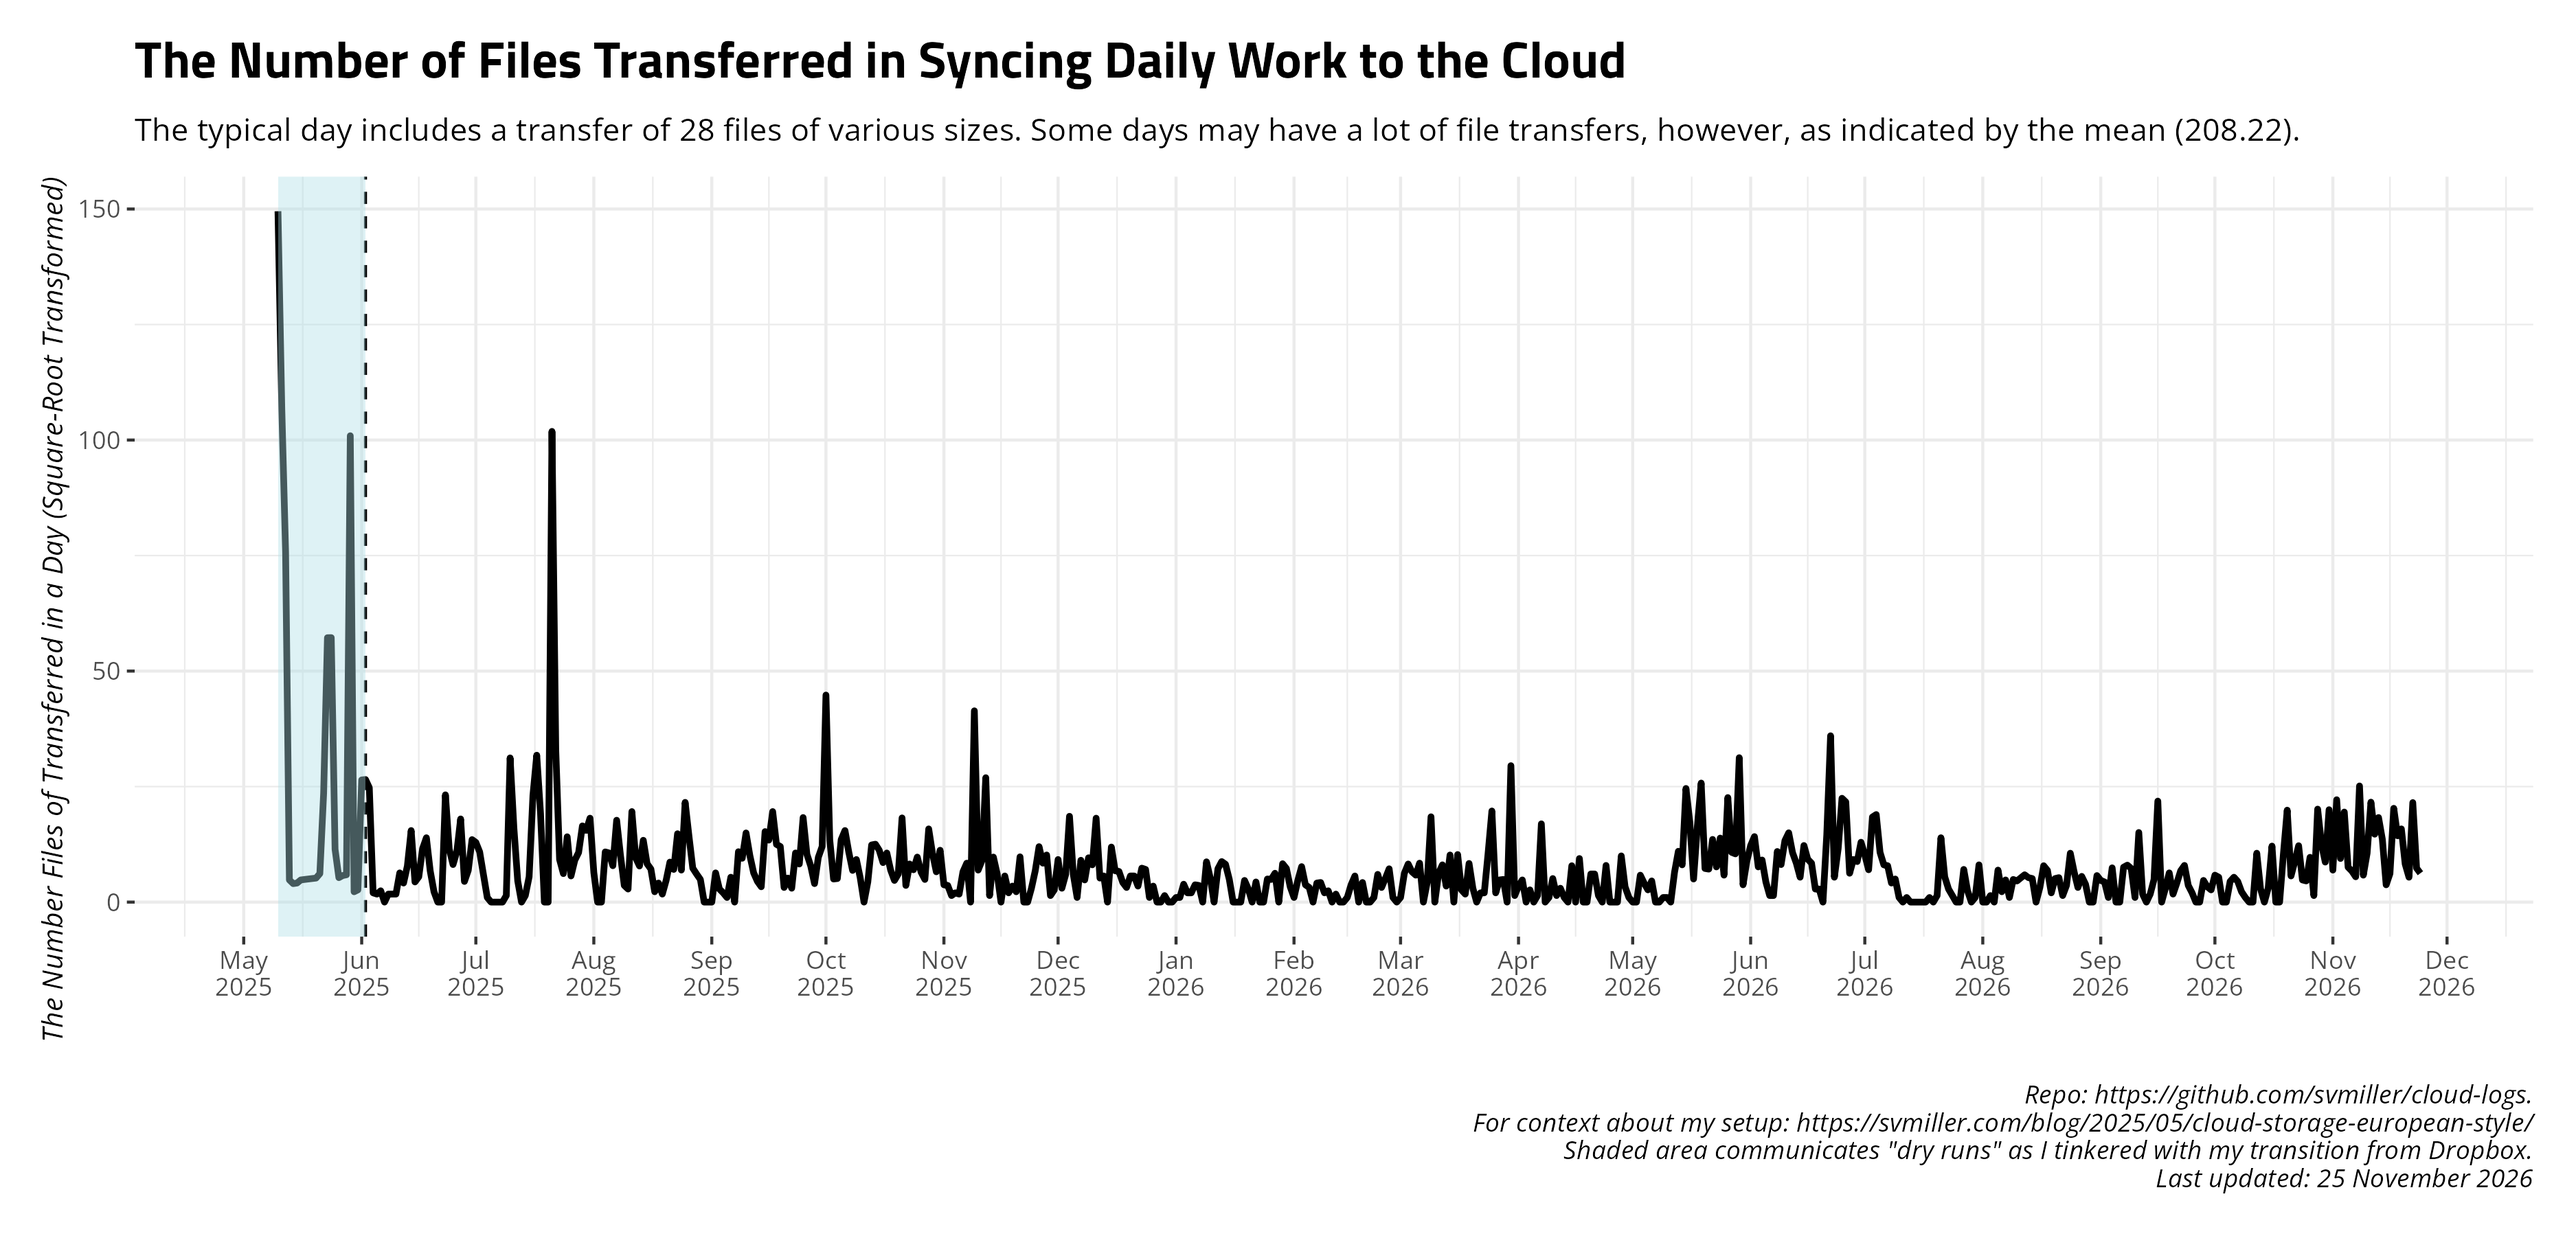
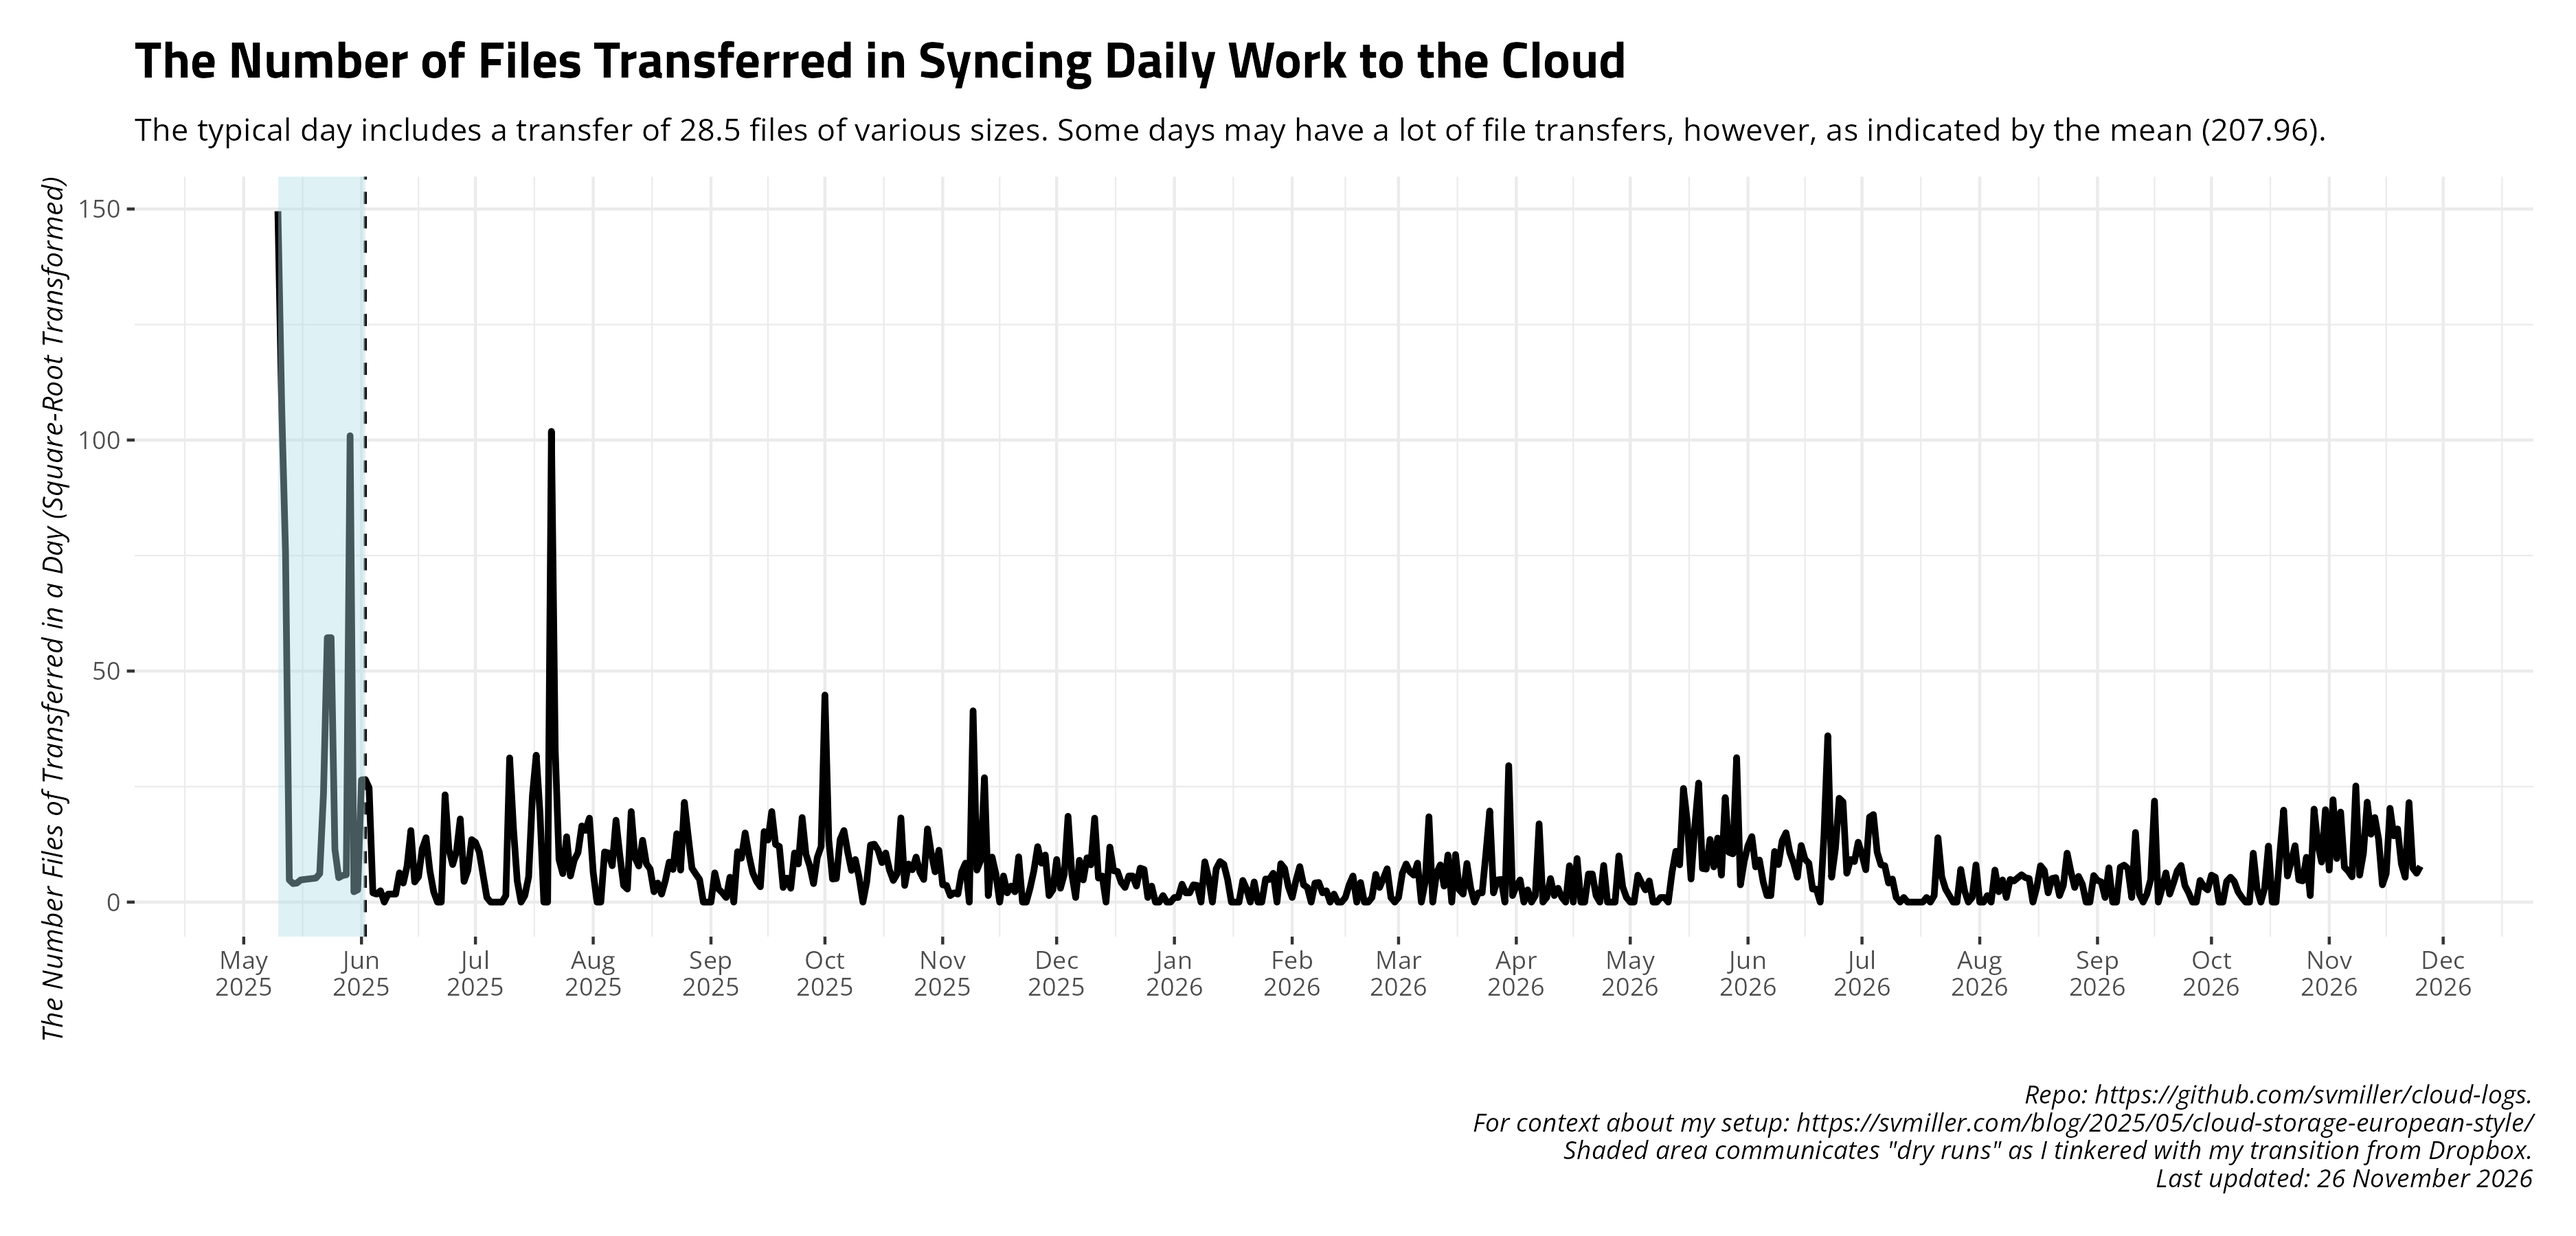
Date: 2026-11-26 09:00:37. Hi mom!

diff --git a/README.md b/README.md
@@ -27,17 +27,17 @@ and uploads to Github.
     #> # A tibble: 14 × 4
     #>    date       ftransfer stransfer   elapsed 
     #>    <date>         <dbl> <chr>       <chr>   
-    #>  1 2026-11-11       468 5.815 MiB   4m58.3s 
-    #>  2 2026-11-12       216 4.728 MiB   4m39.3s 
-    #>  3 2026-11-13       335 8.642 MiB   4m40.1s 
-    #>  4 2026-11-14       185 2.590 MiB   4m58.3s 
-    #>  5 2026-11-15        14 25.928 KiB  4m33.2s 
-    #>  6 2026-11-16        38 374.343 KiB 4m45.9s 
-    #>  7 2026-11-17       412 4.001 MiB   4m51.4s 
-    #>  8 2026-11-18       206 11.101 MiB  4m39.7s 
-    #>  9 2026-11-19       251 4.316 MiB   6m50.2s 
-    #> 10 2026-11-20        68 647.770 KiB 4m56.4s 
-    #> 11 2026-11-21        29 148.928 KiB 4m51.8s 
-    #> 12 2026-11-22       464 23.982 MiB  17m11.2s
-    #> 13 2026-11-23        54 15.587 MiB  7m14.9s 
-    #> 14 2026-11-24        39 2.226 MiB   4m32.5s
+    #>  1 2026-11-12       216 4.728 MiB   4m39.3s 
+    #>  2 2026-11-13       335 8.642 MiB   4m40.1s 
+    #>  3 2026-11-14       185 2.590 MiB   4m58.3s 
+    #>  4 2026-11-15        14 25.928 KiB  4m33.2s 
+    #>  5 2026-11-16        38 374.343 KiB 4m45.9s 
+    #>  6 2026-11-17       412 4.001 MiB   4m51.4s 
+    #>  7 2026-11-18       206 11.101 MiB  4m39.7s 
+    #>  8 2026-11-19       251 4.316 MiB   6m50.2s 
+    #>  9 2026-11-20        68 647.770 KiB 4m56.4s 
+    #> 10 2026-11-21        29 148.928 KiB 4m51.8s 
+    #> 11 2026-11-22       464 23.982 MiB  17m11.2s
+    #> 12 2026-11-23        54 15.587 MiB  7m14.9s 
+    #> 13 2026-11-24        39 2.226 MiB   4m32.5s 
+    #> 14 2026-11-25        60 61.733 MiB  4m52.7s
